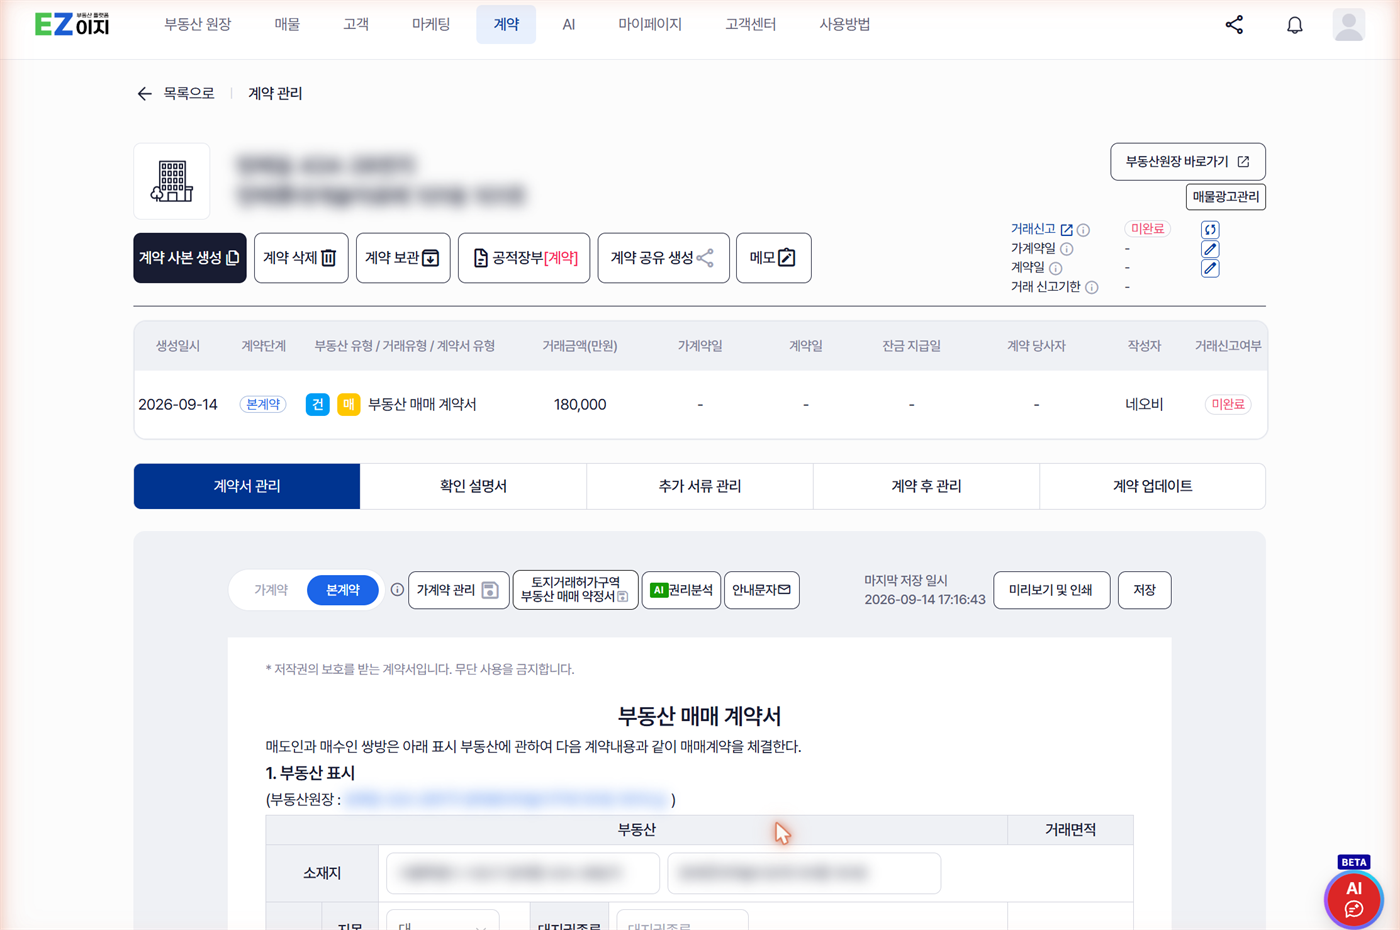
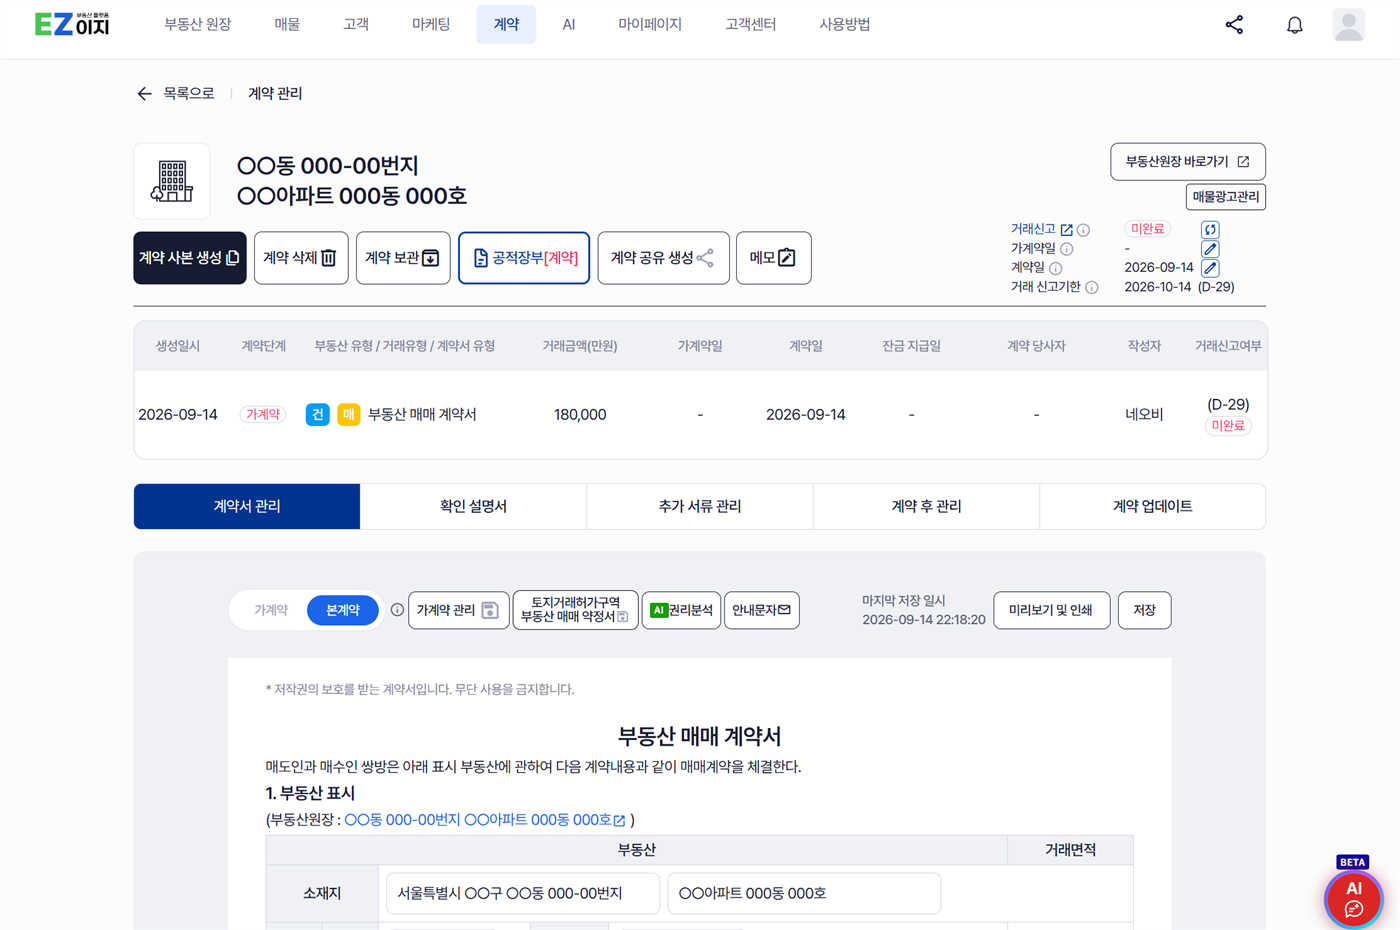
남은 스크린샷 8장 추가 — 확인설명서 외 모든 문서 촬영 완료
- 매물 접수 2·4·5단계: 기초 정보 수정 / 사진 카테고리 / 원장 상세 첨부파일 탭
- 가계약 2·7단계: 계약 내용 금액 / 가계약일 수정 대화상자
- 계약서 7단계: 미리보기 및 인쇄 화면
- 시작하기 3·4단계: 매물 관리 목록 / 계약서 화면
- 계약서 2단계는 흐림본에서 치환본으로 교체

이로써 확인설명서를 뺀 5개 문서의 스크린샷이 모두 채워졌습니다.
공적장부 5단계(일괄 출력)만 OS 인쇄창이라 남겨 두었습니다.

촬영 중 확인된 것
- 원장 상세의 버튼 이름이 '네이버 부동산 광고'로, 문서에 적은
  '네이버 광고 접수 (RETS)'와 다름 — 다음 작업에서 정정 필요
- 사진 카테고리 11종이 문서 내용과 일치
- 지도에 실제 위치가 나와 흐림 처리

diff --git a/docs/howto/property-register.md b/docs/howto/property-register.md
@@ -42,7 +42,7 @@
 
 ## 2. 기초 정보 입력하기
 
-<!-- ![기초 정보 입력](/images/property-register-02.png) -->
+![기초 정보 입력](/images/property-register-02.png)
 
 주소를 불러오면 구조·주용도·면적·지목·대지권종류·대지권비율이 자동으로 채워집니다.
 비어 있으면 **다시 불러오기**나 **공적장부**를 눌러 보세요.
@@ -71,7 +71,7 @@
 
 ## 4. 사진 등록하기
 
-<!-- ![사진 등록](/images/property-register-04.png) -->
+![사진 등록](/images/property-register-04.png)
 
 사진에는 카테고리가 있습니다.
 
@@ -89,7 +89,7 @@
 
 ## 5. 추가 서류 챙기기
 
-<!-- ![추가 서류](/images/property-register-05.png) -->
+![추가 서류](/images/property-register-05.png)
 
 원장 상세의 **매물접수(첨부파일)** 탭에서 등기권리증·등기사항증명서·토지대장 같은 서류를 붙여 둘 수 있습니다.
 

diff --git a/docs/start/first-contract.md b/docs/start/first-contract.md
@@ -38,7 +38,7 @@
 
 ## 3. 매물 하나 등록하기
 
-<!-- ![매물 등록](/images/first-02.png) -->
+![매물 등록](/images/first-02.png)
 
 상단 메뉴 **매물 → 매물 접수**에서 아무 매물이나 하나 넣어봅니다.
 연습용이니 실제 매물이 아니어도 됩니다.
@@ -48,7 +48,7 @@
 
 ## 4. 계약서 한 장 만들어보기
 
-<!-- ![계약서 작성](/images/first-03.png) -->
+![계약서 작성](/images/first-03.png)
 
 상단 메뉴 **계약 → 계약 생성**에서 방금 등록한 매물을 불러옵니다.
 당사자와 금액을 대충 넣고 **미리보기**까지 눌러봅니다.

diff --git a/docs/howto/pre-contract-sms.md b/docs/howto/pre-contract-sms.md
@@ -32,7 +32,7 @@
 
 ## 2. 계약 내용 채우기
 
-<!-- ![계약 내용 입력](/images/pre-contract-sms-02.png) -->
+![계약 내용 입력](/images/pre-contract-sms-02.png)
 
 거래금액과 계약금·중도금·잔금, 그리고 매도인·매수인을 넣습니다.
 
@@ -99,7 +99,7 @@
 
 ## 7. 저장하고 날짜 관리 시작하기
 
-<!-- ![가계약일 저장](/images/pre-contract-sms-07.png) -->
+![가계약일 저장](/images/pre-contract-sms-07.png)
 
 **저장**을 누르면 가계약일이 기록되고 신고 기한 관리가 시작됩니다.
 

diff --git a/docs/howto/contract-apartment.md b/docs/howto/contract-apartment.md
@@ -162,7 +162,7 @@
 
 ## 7. 확인하고 출력하기
 
-<!-- ![출력](/images/contract-apartment-07.png) -->
+![출력](/images/contract-apartment-07.png)
 
 **미리보기 및 인쇄**로 전체를 한 번 확인한 뒤 출력합니다.
 PDF로 저장하시려면 인쇄 대화상자에서 대상을 **PDF로 저장**으로 바꾸시면 됩니다.
